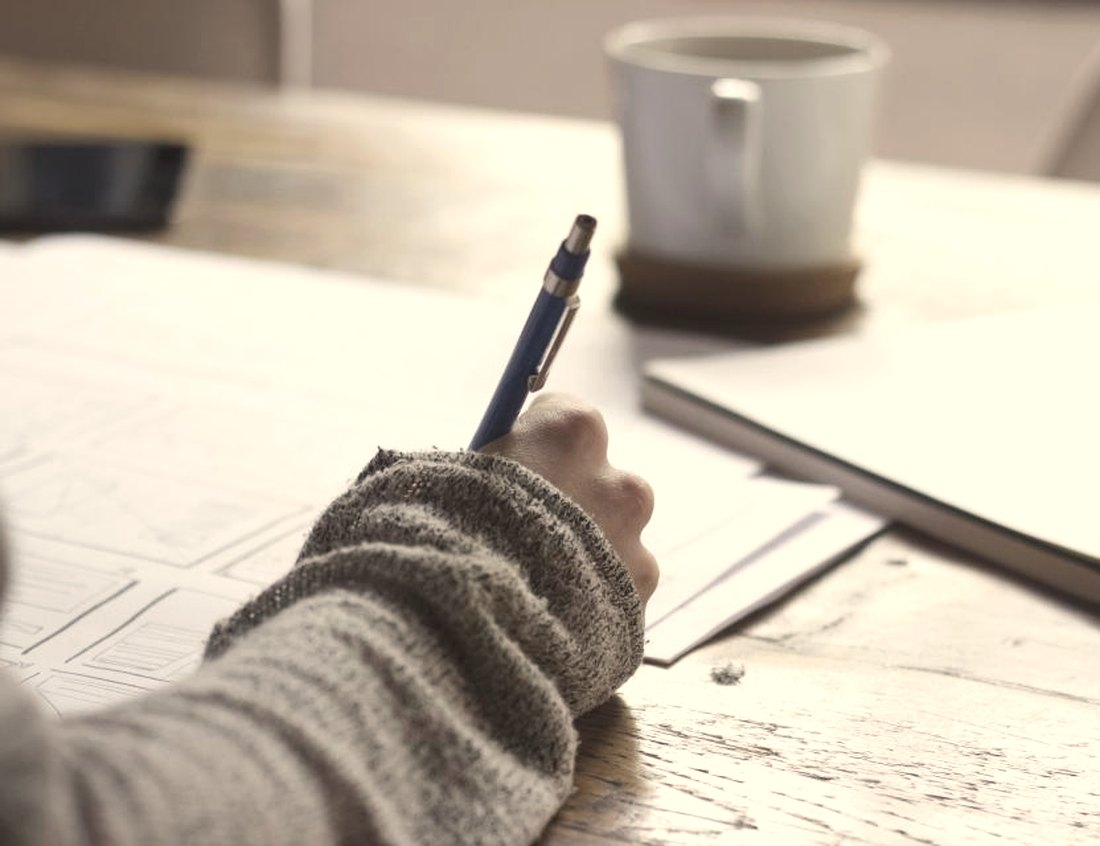
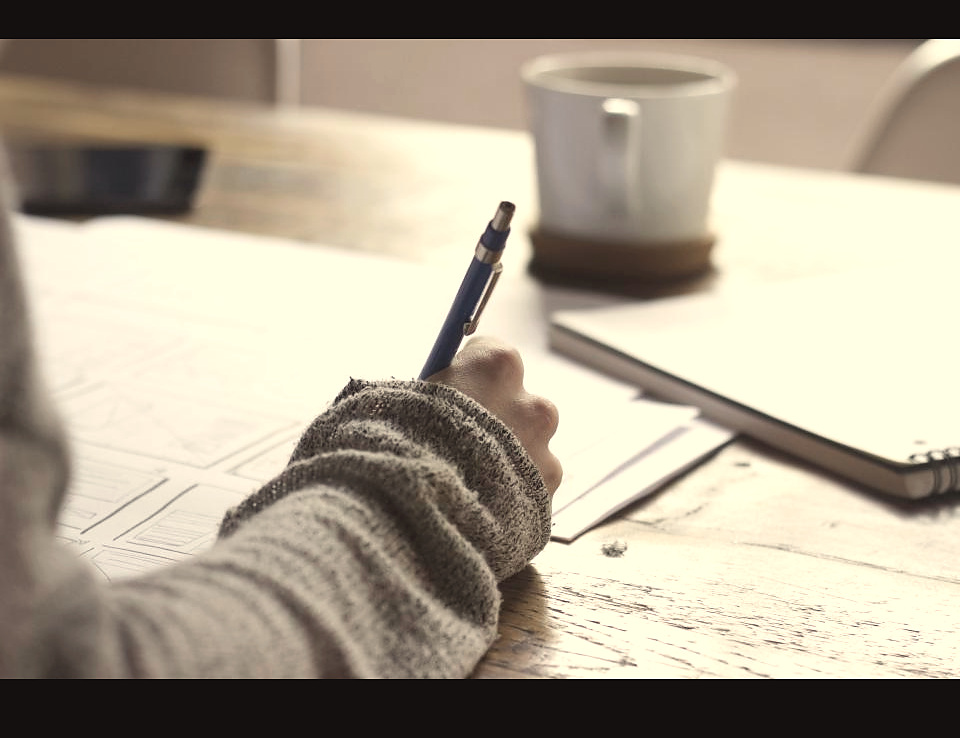
画像を等倍・高品質で再書き出し（拡大とJPEG劣化を解消）、常時表示の電話を相談CTAに変更

diff --git a/index.html b/index.html
@@ -395,6 +395,16 @@ a{color:inherit;text-decoration:none;}
 .trust__d,.faq__body{font-size:12.5px;}
 .faq summary{font-size:13.5px;}
 
+
+/* 左パネル下部：常時表示は電話ではなく相談導線に */
+.side__act{display:flex;flex-direction:column;align-items:flex-end;gap:.7rem;text-align:right;}
+.side__cta{display:inline-flex;align-items:center;gap:.5rem;font-weight:700;font-size:12.5px;letter-spacing:.05em;
+  color:var(--navy);background:#fff;padding:.72rem 1.1rem;transition:background .18s,transform .18s;}
+.side__cta::after{content:"→";font-family:var(--en);}
+.side__cta:hover{background:#8fd3d8;transform:translateY(-1px);}
+.side__sub2{font-size:11px;letter-spacing:.05em;color:var(--on-navy-3);border-bottom:1px solid rgba(255,255,255,.24);padding-bottom:2px;}
+.side__sub2:hover{color:#fff;border-color:rgba(255,255,255,.6);}
+
 </style>
 </head>
 <body>
@@ -413,7 +423,10 @@ a{color:inherit;text-decoration:none;}
     </div>
     <div class="side__btm">
       <span class="side__scroll">Scroll</span>
-      <span class="side__tel"><span class="side__tel-lb">Tel</span><br><span class="side__tel-v">080-3640-5346</span></span>
+      <span class="side__act">
+        <a class="side__cta" href="https://timerex.net/s/tp.sibelius_be66/d331711f" target="_blank" rel="noopener">30分、困りごとを話す</a>
+        <a class="side__sub2" href="#contact">LINE・メールで相談する</a>
+      </span>
     </div>
   </aside>
 
@@ -462,7 +475,7 @@ a{color:inherit;text-decoration:none;}
         </div>
         <div class="svc__item">
           <p class="svc__num">02</p>
-          <div class="svc__img"><img src="assets/img_tool.jpg" alt="実際に制作した業務ツールの画面"></div>
+          <div class="svc__img"><img src="assets/img_tool.png" alt="実際に制作した業務ツールの画面"></div>
           <p class="svc__ti">専用のツールをつくる</p>
           <p class="svc__tx">問い合わせ・予約の受付、見積や報告書づくり、ホームページ。既製品に合わせず、あなたの業務にちょうどの形で用意します。<br><span style="color:var(--ink-3);font-size:12.5px">（写真：実際に制作したヒアリング支援ツール）</span></p>
         </div>
@@ -497,7 +510,7 @@ a{color:inherit;text-decoration:none;}
           <p class="work__metric"><span class="work__from">週10時間</span><span class="work__ar">&#8594;</span><span class="work__to">週3時間</span><span class="work__cut">70%削減</span></p>
         </div>
         <div>
-          <div class="work__fig"><img src="assets/img_tool.jpg" alt="制作したヒアリング支援ツールの画面"></div>
+          <div class="work__fig"><img src="assets/img_tool.png" alt="制作したヒアリング支援ツールの画面"></div>
           <p class="work__cap">Tool &#8213; ヒアリング支援ツール（自社開発）</p>
         </div>
       </div>

diff --git a/preview-redesign6.html b/preview-redesign6.html
@@ -396,6 +396,16 @@ a{color:inherit;text-decoration:none;}
 .trust__d,.faq__body{font-size:12.5px;}
 .faq summary{font-size:13.5px;}
 
+
+/* 左パネル下部：常時表示は電話ではなく相談導線に */
+.side__act{display:flex;flex-direction:column;align-items:flex-end;gap:.7rem;text-align:right;}
+.side__cta{display:inline-flex;align-items:center;gap:.5rem;font-weight:700;font-size:12.5px;letter-spacing:.05em;
+  color:var(--navy);background:#fff;padding:.72rem 1.1rem;transition:background .18s,transform .18s;}
+.side__cta::after{content:"→";font-family:var(--en);}
+.side__cta:hover{background:#8fd3d8;transform:translateY(-1px);}
+.side__sub2{font-size:11px;letter-spacing:.05em;color:var(--on-navy-3);border-bottom:1px solid rgba(255,255,255,.24);padding-bottom:2px;}
+.side__sub2:hover{color:#fff;border-color:rgba(255,255,255,.6);}
+
 </style>
 </head>
 <body>
@@ -414,7 +424,10 @@ a{color:inherit;text-decoration:none;}
     </div>
     <div class="side__btm">
       <span class="side__scroll">Scroll</span>
-      <span class="side__tel"><span class="side__tel-lb">Tel</span><br><span class="side__tel-v">080-3640-5346</span></span>
+      <span class="side__act">
+        <a class="side__cta" href="https://timerex.net/s/tp.sibelius_be66/d331711f" target="_blank" rel="noopener">30分、困りごとを話す</a>
+        <a class="side__sub2" href="#contact">LINE・メールで相談する</a>
+      </span>
     </div>
   </aside>
 
@@ -463,7 +476,7 @@ a{color:inherit;text-decoration:none;}
         </div>
         <div class="svc__item">
           <p class="svc__num">02</p>
-          <div class="svc__img"><img src="assets/img_tool.jpg" alt="実際に制作した業務ツールの画面"></div>
+          <div class="svc__img"><img src="assets/img_tool.png" alt="実際に制作した業務ツールの画面"></div>
           <p class="svc__ti">専用のツールをつくる</p>
           <p class="svc__tx">問い合わせ・予約の受付、見積や報告書づくり、ホームページ。既製品に合わせず、あなたの業務にちょうどの形で用意します。<br><span style="color:var(--ink-3);font-size:12.5px">（写真：実際に制作したヒアリング支援ツール）</span></p>
         </div>
@@ -498,7 +511,7 @@ a{color:inherit;text-decoration:none;}
           <p class="work__metric"><span class="work__from">週10時間</span><span class="work__ar">&#8594;</span><span class="work__to">週3時間</span><span class="work__cut">70%削減</span></p>
         </div>
         <div>
-          <div class="work__fig"><img src="assets/img_tool.jpg" alt="制作したヒアリング支援ツールの画面"></div>
+          <div class="work__fig"><img src="assets/img_tool.png" alt="制作したヒアリング支援ツールの画面"></div>
           <p class="work__cap">Tool &#8213; ヒアリング支援ツール（自社開発）</p>
         </div>
       </div>
